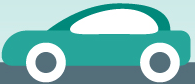
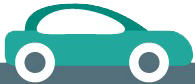
working main game,still need work on css

diff --git a/style.css b/style.css
@@ -1,0 +1,86 @@
+
+* {
+    padding: 0;
+    margin: 0;
+    box-sizing: border-box;
+}
+#startGameButton {
+    margin-top: 20px;
+  font-size: 200px;
+  cursor: default;
+  color: #36a2eb;
+}
+
+body {
+    font-family: Arial;
+    background-color: #fff;
+    color: #333;
+  }
+  .game-container {
+    width: 100vw;
+    height: 100vh;
+    text-align: center;
+    padding: 20px;
+  }
+  #score {
+      margin-top: 20px;
+    display: inline-block;
+    font-size: 50px;
+    font-weight: bold;
+    -moz-user-select: none;
+    -webkit-user-select: none;
+    -ms-user-select: none;
+    user-select: none;
+}
+.arrow {
+    margin-top: 20px;
+  font-size: 200px;
+  cursor: default;
+  /* color: #36a2eb;
+  color: #ff6384;   */
+}
+
+#restartGameButton {
+    position: absolute;
+    top: 6px;
+    right: 20px;
+    font-size: 16px;
+    background-color: #ccc;
+    color: #fff;
+    padding: 8px 10px;
+    border: none;
+    border-radius: 5px;
+    cursor: pointer;
+    outline: none;
+    transition-duration: 0.2s;
+    transition-property: background-color;
+  }
+  #restartGameButton:hover {
+    background-color: #333;
+  }
+  #restartGameButton:active {
+    background-color: #000;
+  }
+
+  .normal {
+    color: #36a2eb;
+  }
+
+  .exciting {
+    color: #59f34b; 
+  }
+
+  #progress-bar-container {
+    width: 80%;
+    margin: 0 auto 10px auto;
+    background-color: #ccc;
+    border-radius: 5px;
+  }
+  #progress-bar {
+    width: 100%;
+    height: 8px;
+    background-color: #00cc99;
+    border-radius: 5px;
+    transition-duration: 0.5s;
+    transition-property: background-color;
+  }

diff --git a/index.html b/index.html
@@ -2,6 +2,7 @@
 <!DOCTYPE html>
 <html lang="en">
 <head>
+    <link href=“https://fonts.googleapis.com/css2?family=Permanent+Marker&display=swap” rel=“stylesheet”>
     <meta charset="UTF-8">
     <meta name="viewport" content="width=device-width, initial-scale=1.0">
     <title>Start Game</title>
@@ -9,7 +10,9 @@
     <script src="https://kit.fontawesome.com/c1b23fece0.js" crossorigin="anonymous"></script>
 </head>
 <body>
+    <h1>Bring me home!!</h1>
     <div class = "bg"></div>
+    <img src = "car.png" class="car">
     <button onclick="location.href = 'gamepage.html';" id="startGameButton" onclick= "myFunction()"><i class="fas fa-play-circle"></i></button>
 </body>
 

diff --git a/firstscreen.css b/firstscreen.css
@@ -1,5 +1,36 @@
+* {
+    font-family: 'Permanent Marker', cursive;
+}
+h1 {
+    font-size: 50px;
+    text-align: center;
+    margin: 0 auto;
+    
+}
 body {
     margin: 0;
     padding: 0;
 }
-.
+
+.bg {
+    position: relative;
+    background: #00fdff url(background.jpg);
+    height: 100vh;
+    background-size: cover;
+    background-position: 0 0;
+    background-repeat: repeat-x;
+    animation: animate 40s linear infinite;
+}
+.car {
+    position: absolute;
+    bottom: 0;
+}
+@keyframes animate {
+    from {
+        background-position: 0 0;
+    }
+    to {
+        background-position: 100% 0;
+    }
+
+}

diff --git a/endgame.html b/endgame.html
@@ -8,6 +8,7 @@
     <script src="https://kit.fontawesome.com/c1b23fece0.js" crossorigin="anonymous"></script>
 </head>
 <body>
+    
     <button onclick="location.href = 'gamepage.html';" id="startGameButton" onclick= "myFunction()"><i class="fas fa-play-circle"></i></button>
 </body>
 
